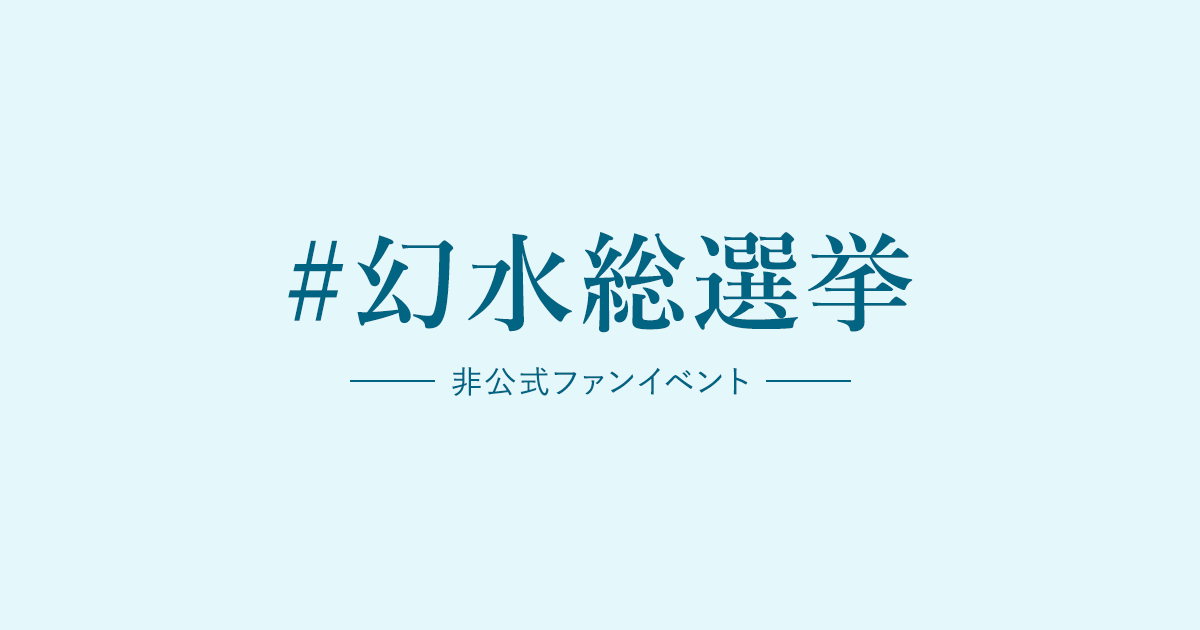
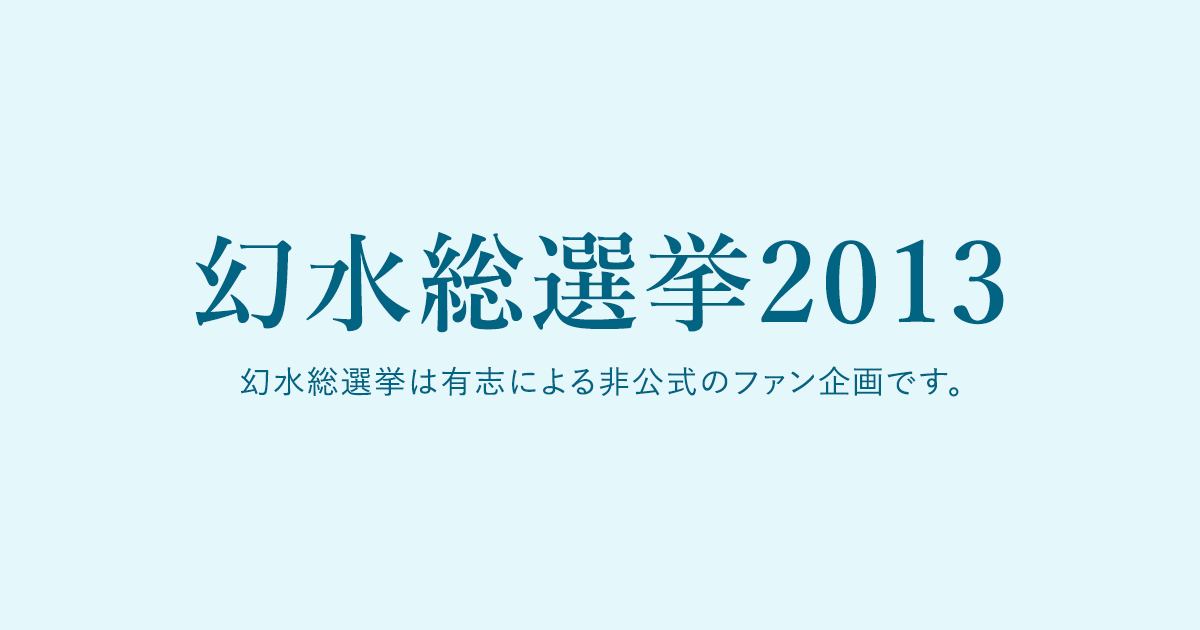
順位・キャラクター名・その他軽微な修正 (#18)
* 順位・キャラクター名・その他軽微な修正

* ルクレティア・メルセス順位変更、メルテス卿削除、追記変更

* 「に修正しました。」の文字追加

Changed region(s): [[0.1542, 0.3619, 0.8325, 0.5429], [0.185, 0.573, 0.8017, 0.6333]]

diff --git a/index.html b/index.html
@@ -3,17 +3,17 @@
 <head>
 <meta charset="utf-8">
 <meta name="viewport" content="width=device-width, initial-scale=1">
-<title>集計結果｜【非公式】幻水総選挙2013</title>
+<title>【非公式】幻水総選挙2013</title>
 <meta property="og:locale" content="ja_JP" />
 <meta property="og:url" content="https://election-2013.suikoden.info/" />
 <meta property="og:type" content="website" />
-<meta property="og:title" content="集計結果｜【非公式】幻水総選挙2013" />
+<meta property="og:title" content="【非公式】幻水総選挙2013" />
 <meta property="og:description" content="幻水総選挙2013は、「幻想水滸伝シリーズ」のファン・有志による非公式の投票イベントです。既存の企業様、関係者様等とは一切関係ありません。" />
 <meta property="og:site_name" content="【非公式】幻水総選挙2013" />
 <meta property="og:image" content="https://election-2013.suikoden.info/assets/img/ogp.png" />
 <meta name="twitter:card" content="summary_large_image" />
 <meta name="twitter:site" content="@gensosenkyo" />
-<meta name="twitter:title" content="集計結果｜【非公式】幻水総選挙2013" />
+<meta name="twitter:title" content="【非公式】幻水総選挙2013" />
 <meta name="twitter:description" content="幻水総選挙2013は、「幻想水滸伝シリーズ」のファン・有志による非公式の投票イベントです。既存の企業様、関係者様等とは一切関係ありません。" />
 <link rel="icon" href="assets/img/favicon-32x32.png" sizes="32x32" />
 <link rel="icon" href="assets/img/favicon-192x192.png" sizes="192x192" />
@@ -28,11 +28,11 @@
 </head>
 <body id="top">
 <header class="header">
-  <div class="header__sitename">【非公式】幻水総選挙2013</div>
+  <h1 class="header__sitename">幻水総選挙2013</h1>
 </header>
 
 <main class="main">
-  <h1>集計結果</h1>
+  <h2>集計結果</h2>
   <dl class="overview">
     <dt>投票受付期間</dt>
     <dd>2013/5/31 21:00頃 ～ 2013/6/3 0:00</dd>
@@ -143,6 +143,7 @@
           <tr><td class="rank">30</td><td class="votes">5</td><td class="character">ムクムク</td></tr>
           <tr><td class="rank">30</td><td class="votes">5</td><td class="character">リオン</td></tr>
           <tr><td class="rank">30</td><td class="votes">5</td><td class="character">リッチモンド</td></tr>
+          <tr><td class="rank">30</td><td class="votes">5</td><td class="character">ルクレティア・メルセス</td></tr>
           <tr><td class="rank">30</td><td class="votes">5</td><td class="character">ワカバ</td></tr>
           <tr><td class="rank">31</td><td class="votes">4</td><td class="character">アイリ</td></tr>
           <tr><td class="rank">31</td><td class="votes">4</td><td class="character">アンネリー</td></tr>
@@ -172,16 +173,15 @@
           <tr><td class="rank">31</td><td class="votes">4</td><td class="character">ヒルダ</td></tr>
           <tr><td class="rank">31</td><td class="votes">4</td><td class="character">炎の英雄</td></tr>
           <tr><td class="rank">31</td><td class="votes">4</td><td class="character">ヨベル</td></tr>
-          <tr><td class="rank">31</td><td class="votes">4</td><td class="character">ルクレティア・メルセス</td></tr>
           <tr><td class="rank">31</td><td class="votes">4</td><td class="character">ルセリナ・バロウズ</td></tr>
           <tr><td class="rank">32</td><td class="votes">3</td><td class="character">アイリーン</td></tr>
           <tr><td class="rank">32</td><td class="votes">3</td><td class="character">アイン・ジード</td></tr>
           <tr><td class="rank">32</td><td class="votes">3</td><td class="character">アトリ</td></tr>
           <tr><td class="rank">32</td><td class="votes">3</td><td class="character">アルシュタート・ファレナス</td></tr>
-          <tr><td class="rank">32</td><td class="votes">3</td><td class="character">ウィンドウ</td></tr>
+          <tr><td class="rank">32</td><td class="votes">3</td><td class="character">ウインドウ</td></tr>
           <tr><td class="rank">32</td><td class="votes">3</td><td class="character">オウラン</td></tr>
           <tr><td class="rank">32</td><td class="votes">3</td><td class="character">コーネル</td></tr>
-          <tr><td class="rank">32</td><td class="votes">3</td><td class="character">サイリアーズ</td></tr>
+          <tr><td class="rank">32</td><td class="votes">3</td><td class="character">サイアリーズ</td></tr>
           <tr><td class="rank">32</td><td class="votes">3</td><td class="character">ジーン</td></tr>
           <tr><td class="rank">32</td><td class="votes">3</td><td class="character">シャムス</td></tr>
           <tr><td class="rank">32</td><td class="votes">3</td><td class="character">シャロン</td></tr>
@@ -278,6 +278,7 @@
           <tr><td class="rank">33</td><td class="votes">2</td><td class="character">リィナ</td></tr>
           <tr><td class="rank">33</td><td class="votes">2</td><td class="character">リキマル</td></tr>
           <tr><td class="rank">33</td><td class="votes">2</td><td class="character">リタ</td></tr>
+          <tr><td class="rank">33</td><td class="votes">2</td><td class="character">リュキア</td></tr>
           <tr><td class="rank">33</td><td class="votes">2</td><td class="character">ルオ・タウ</td></tr>
           <tr><td class="rank">33</td><td class="votes">2</td><td class="character">レーヴン</td></tr>
           <tr><td class="rank">33</td><td class="votes">2</td><td class="character">レオン・シルバーバーグ</td></tr>
@@ -325,7 +326,7 @@
           <tr><td class="rank">34</td><td class="votes">1</td><td class="character">グントラム</td></tr>
           <tr><td class="rank">34</td><td class="votes">1</td><td class="character">ケイト</td></tr>
           <tr><td class="rank">34</td><td class="votes">1</td><td class="character">ゲン</td></tr>
-          <tr><td class="rank">34</td><td class="votes">1</td><td class="character">コウュウ</td></tr>
+          <tr><td class="rank">34</td><td class="votes">1</td><td class="character">コウユウ</td></tr>
           <tr><td class="rank">34</td><td class="votes">1</td><td class="character">コルネリオ</td></tr>
           <tr><td class="rank">34</td><td class="votes">1</td><td class="character">コロク</td></tr>
           <tr><td class="rank">34</td><td class="votes">1</td><td class="character">サーヴィラ</td></tr>
@@ -426,10 +427,8 @@
           <tr><td class="rank">34</td><td class="votes">1</td><td class="character">リーリン</td></tr>
           <tr><td class="rank">34</td><td class="votes">1</td><td class="character">リールン</td></tr>
           <tr><td class="rank">34</td><td class="votes">1</td><td class="character">リイン・ペンネンバーグ</td></tr>
-          <tr><td class="rank">34</td><td class="votes">1</td><td class="character">リキュア</td></tr>
           <tr><td class="rank">34</td><td class="votes">1</td><td class="character">リドリー</td></tr>
           <tr><td class="rank">34</td><td class="votes">1</td><td class="character">リュウカン</td></tr>
-          <tr><td class="rank">34</td><td class="votes">1</td><td class="character">リュキア</td></tr>
           <tr><td class="rank">34</td><td class="votes">1</td><td class="character">ルイーズ</td></tr>
           <tr><td class="rank">34</td><td class="votes">1</td><td class="character">ルイス・キファーソン</td></tr>
           <tr><td class="rank">34</td><td class="votes">1</td><td class="character">ルバイス</td></tr>
@@ -457,14 +456,28 @@
           <tr><td class="rank">34</td><td class="votes">1</td><td class="character">ヘカトンケイル</td></tr>
           <tr><td class="rank">34</td><td class="votes">1</td><td class="character">フリードー家</td></tr>
           <tr><td class="rank">34</td><td class="votes">1</td><td class="character">マクシミリアンズ</td></tr>
+          <tr><td class="rank">34</td><td class="votes">1</td><td class="character">「豚は死ね！」で殺されたおんなのひと</td></tr>
+          <tr><td class="rank">34</td><td class="votes">1</td><td class="character">もさもさ</td></tr>
+          <tr><td class="rank">34</td><td class="votes">1</td><td class="character">えれべーたー</td></tr>
+          <tr><td class="rank">34</td><td class="votes">1</td><td class="character">ジョー軍曹の尻</td></tr>
+          <tr><td class="rank">34</td><td class="votes">1</td><td class="character">スノウの腕</td></tr>
+          <tr><td class="rank">34</td><td class="votes">1</td><td class="character">ソウルイーター</td></tr>
+          <tr><td class="rank">34</td><td class="votes">1</td><td class="character">瞬きの手鏡</td></tr>
         </tbody>
       </table>
     </div>
-    <p>
-      ※集計漏れ等もしありましたらすみません。<br>
-      ※外伝ナッシュと3ナッシュ、少年フッチと青年フッチのように複数作品に登場するキャラの区別はしていません。<br>
-      ※同じキャラへの複数投票は一票として数えさせて頂きました。
-    </p>
+    <div class="notes">
+      <p>
+        ※集計漏れ等もしありましたらすみません。<br>
+        ※外伝ナッシュと3ナッシュ、少年フッチと青年フッチのように複数作品に登場するキャラの区別はしていません。<br>
+        ※同じキャラへの複数投票は一票として数えさせて頂きました。
+      </p>
+      <p>（2026.01.12 追記）<br>※順位の修正を行ないました。</p>
+      <ul>
+        <li>「リキュア」→「リュキア」の誤字修正に伴い、「リュキア」を34位（1票）→33位（2票）に修正しました。</li>
+        <li>「メルテス卿」→「ルクレティア・メルセス」の誤字修正に伴い、「ルクレティア・メルセス」を31位（4票）→30位（5票）に修正しました。</li>
+      </ul>
+    </div>
   </section>
 </main>
 

diff --git a/assets/css/result.css b/assets/css/result.css
@@ -25,6 +25,10 @@ body {
   padding: 1em;
   font-weight: 500;
   background: var(--color-gry-01);
+  .header__sitename {
+    margin: 0;
+    font-size: inherit;
+  }
 }
 .footer {
   padding: 1em 1em 2em;
@@ -52,8 +56,9 @@ body {
   width: min(920px, 100%);
   margin: 2em auto 5em;
 }
-h1 {
+h2 {
   margin-bottom: 1em;
+  font-size: 2em;
 }
 a {
   color: blue;
@@ -126,8 +131,14 @@ a + .fa-solid {
     background: var(--color-gry-01);
   }
 }
-#table + p {
+.notes {
   font-size: 0.9em;
+  & ul {
+    padding-left: 1.5em;
+  }
+  & p + ul {
+    margin-top: -1em;
+  }
 }
 
 @media (min-width: 768px) {
